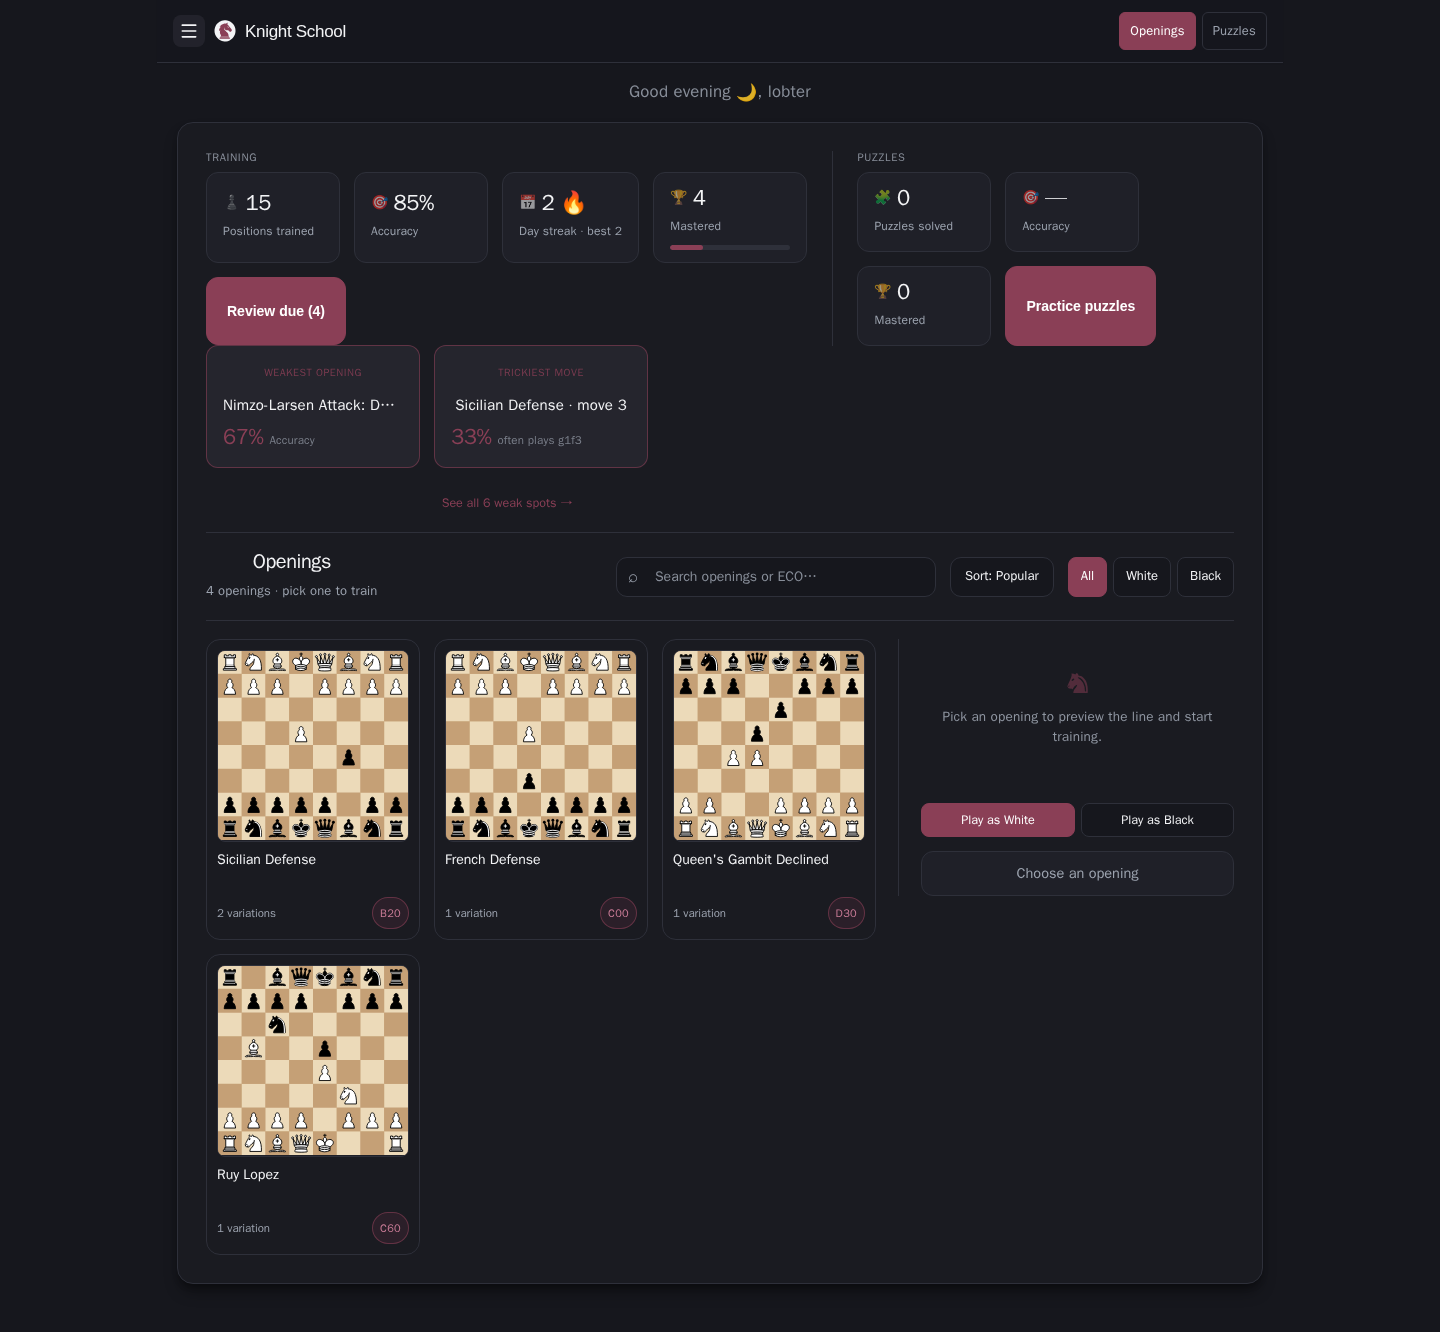
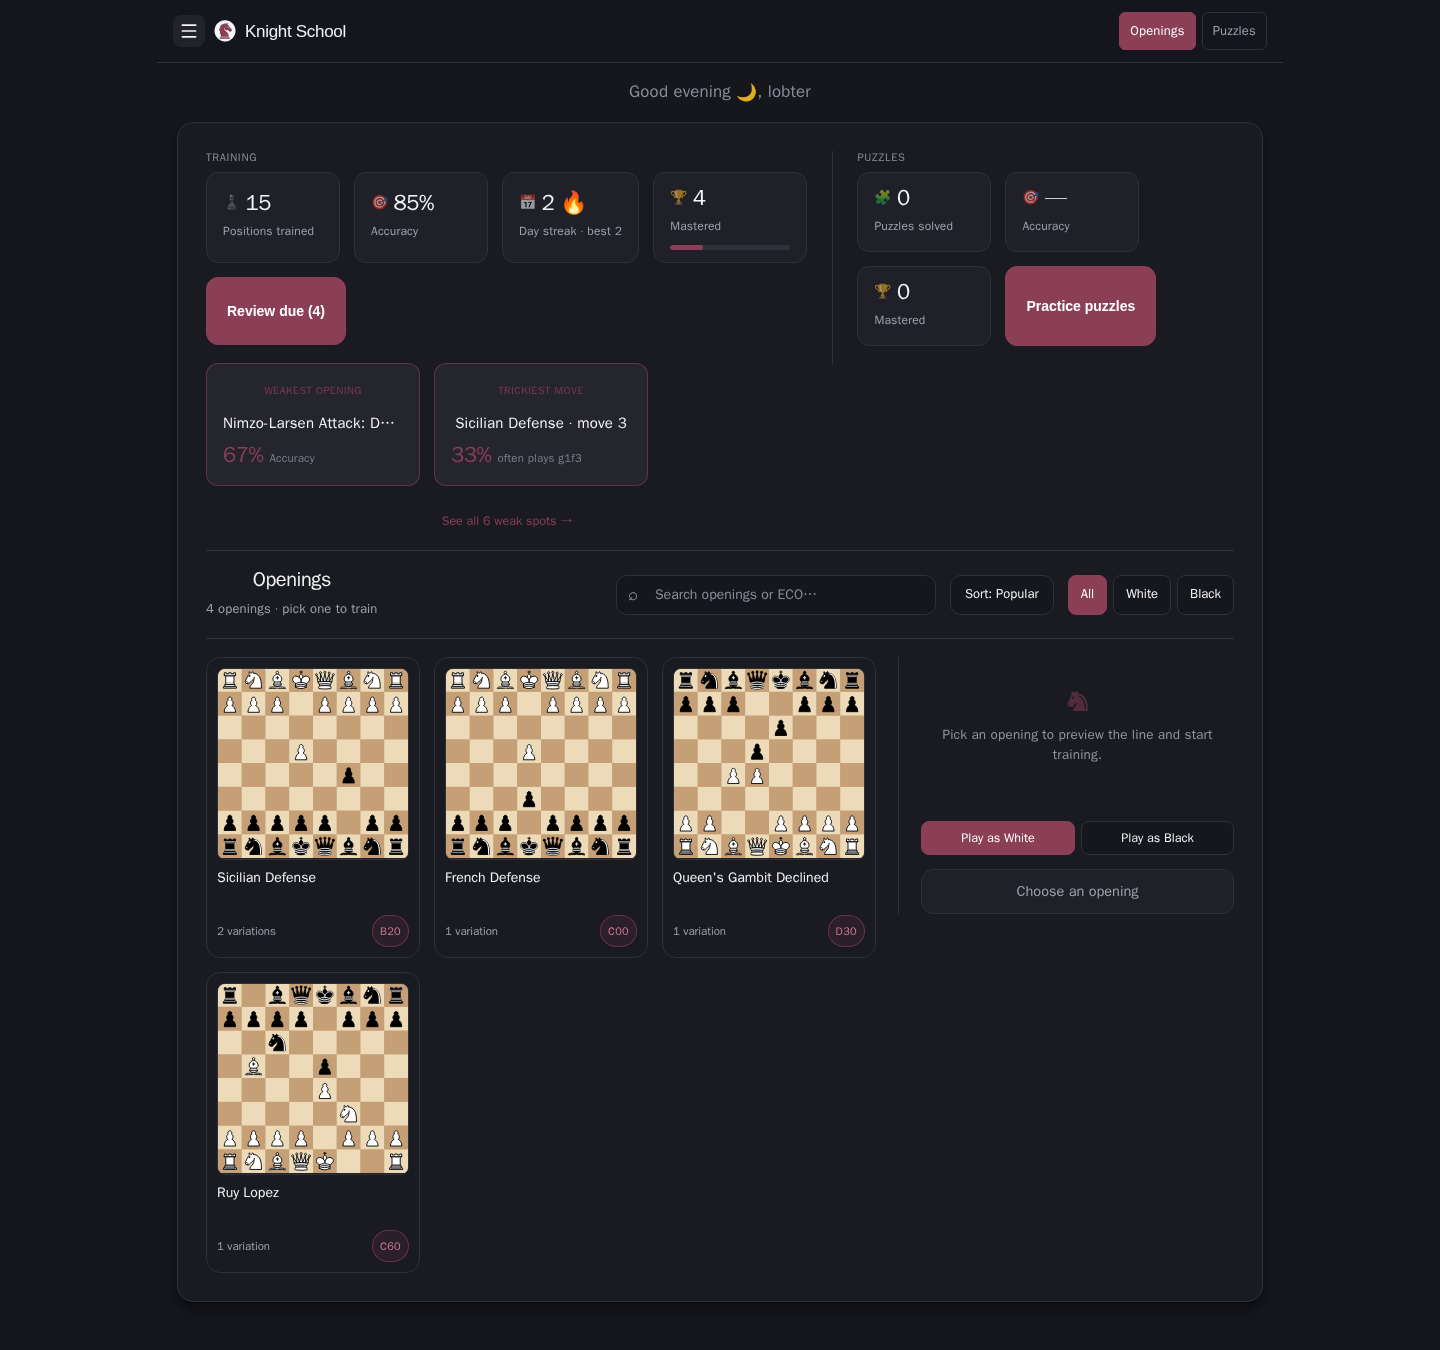
fix(react): fix Review due button touching weak-spot cards at narrow desktop widths
At widths where the training stat row wraps (e.g. 1024px), the taller
Review due button (from the previous fix) sat with almost no gap
before the weak-spot cards below it since .progress-group-row had no
margin-bottom of its own to rely on.

diff --git a/packages/shared-styles/dashboard.css b/packages/shared-styles/dashboard.css
@@ -53,8 +53,10 @@
   display: flex;
   align-items: stretch;
   gap: 14px;
+  row-gap: 14px;
   flex-wrap: wrap;
   text-align: left;
+  margin-bottom: 18px;
 }
 .progress-stat {
   display: flex;
